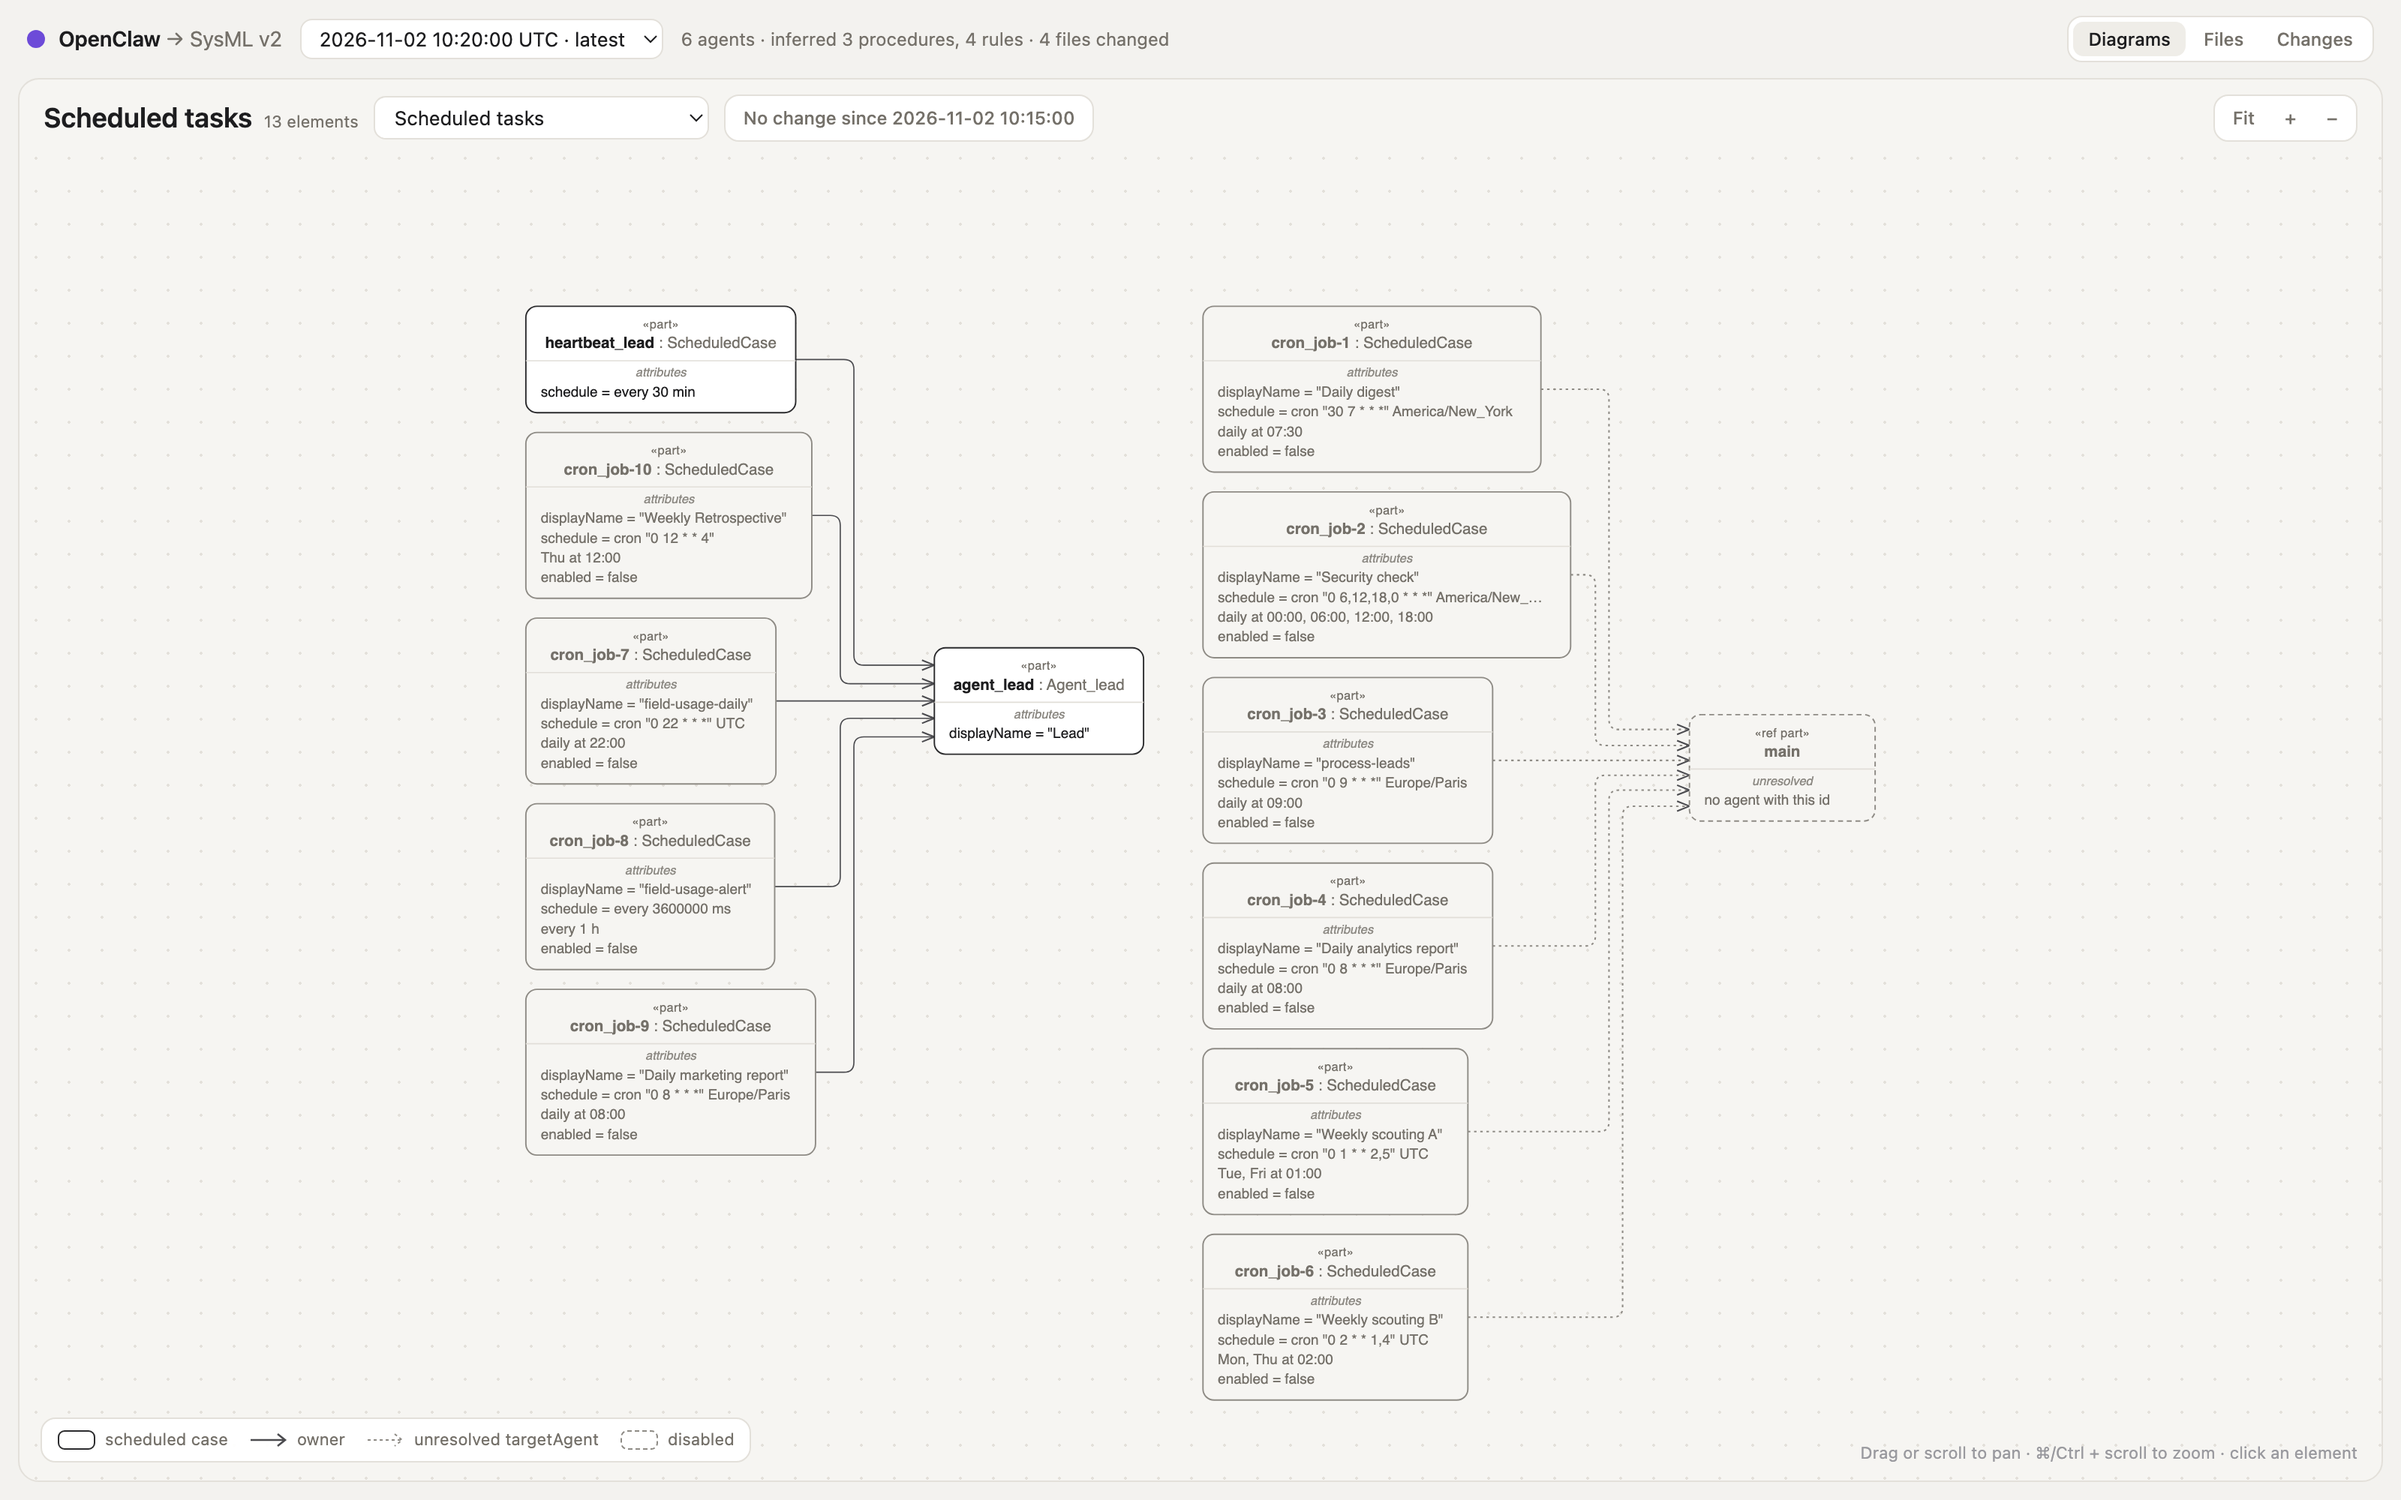
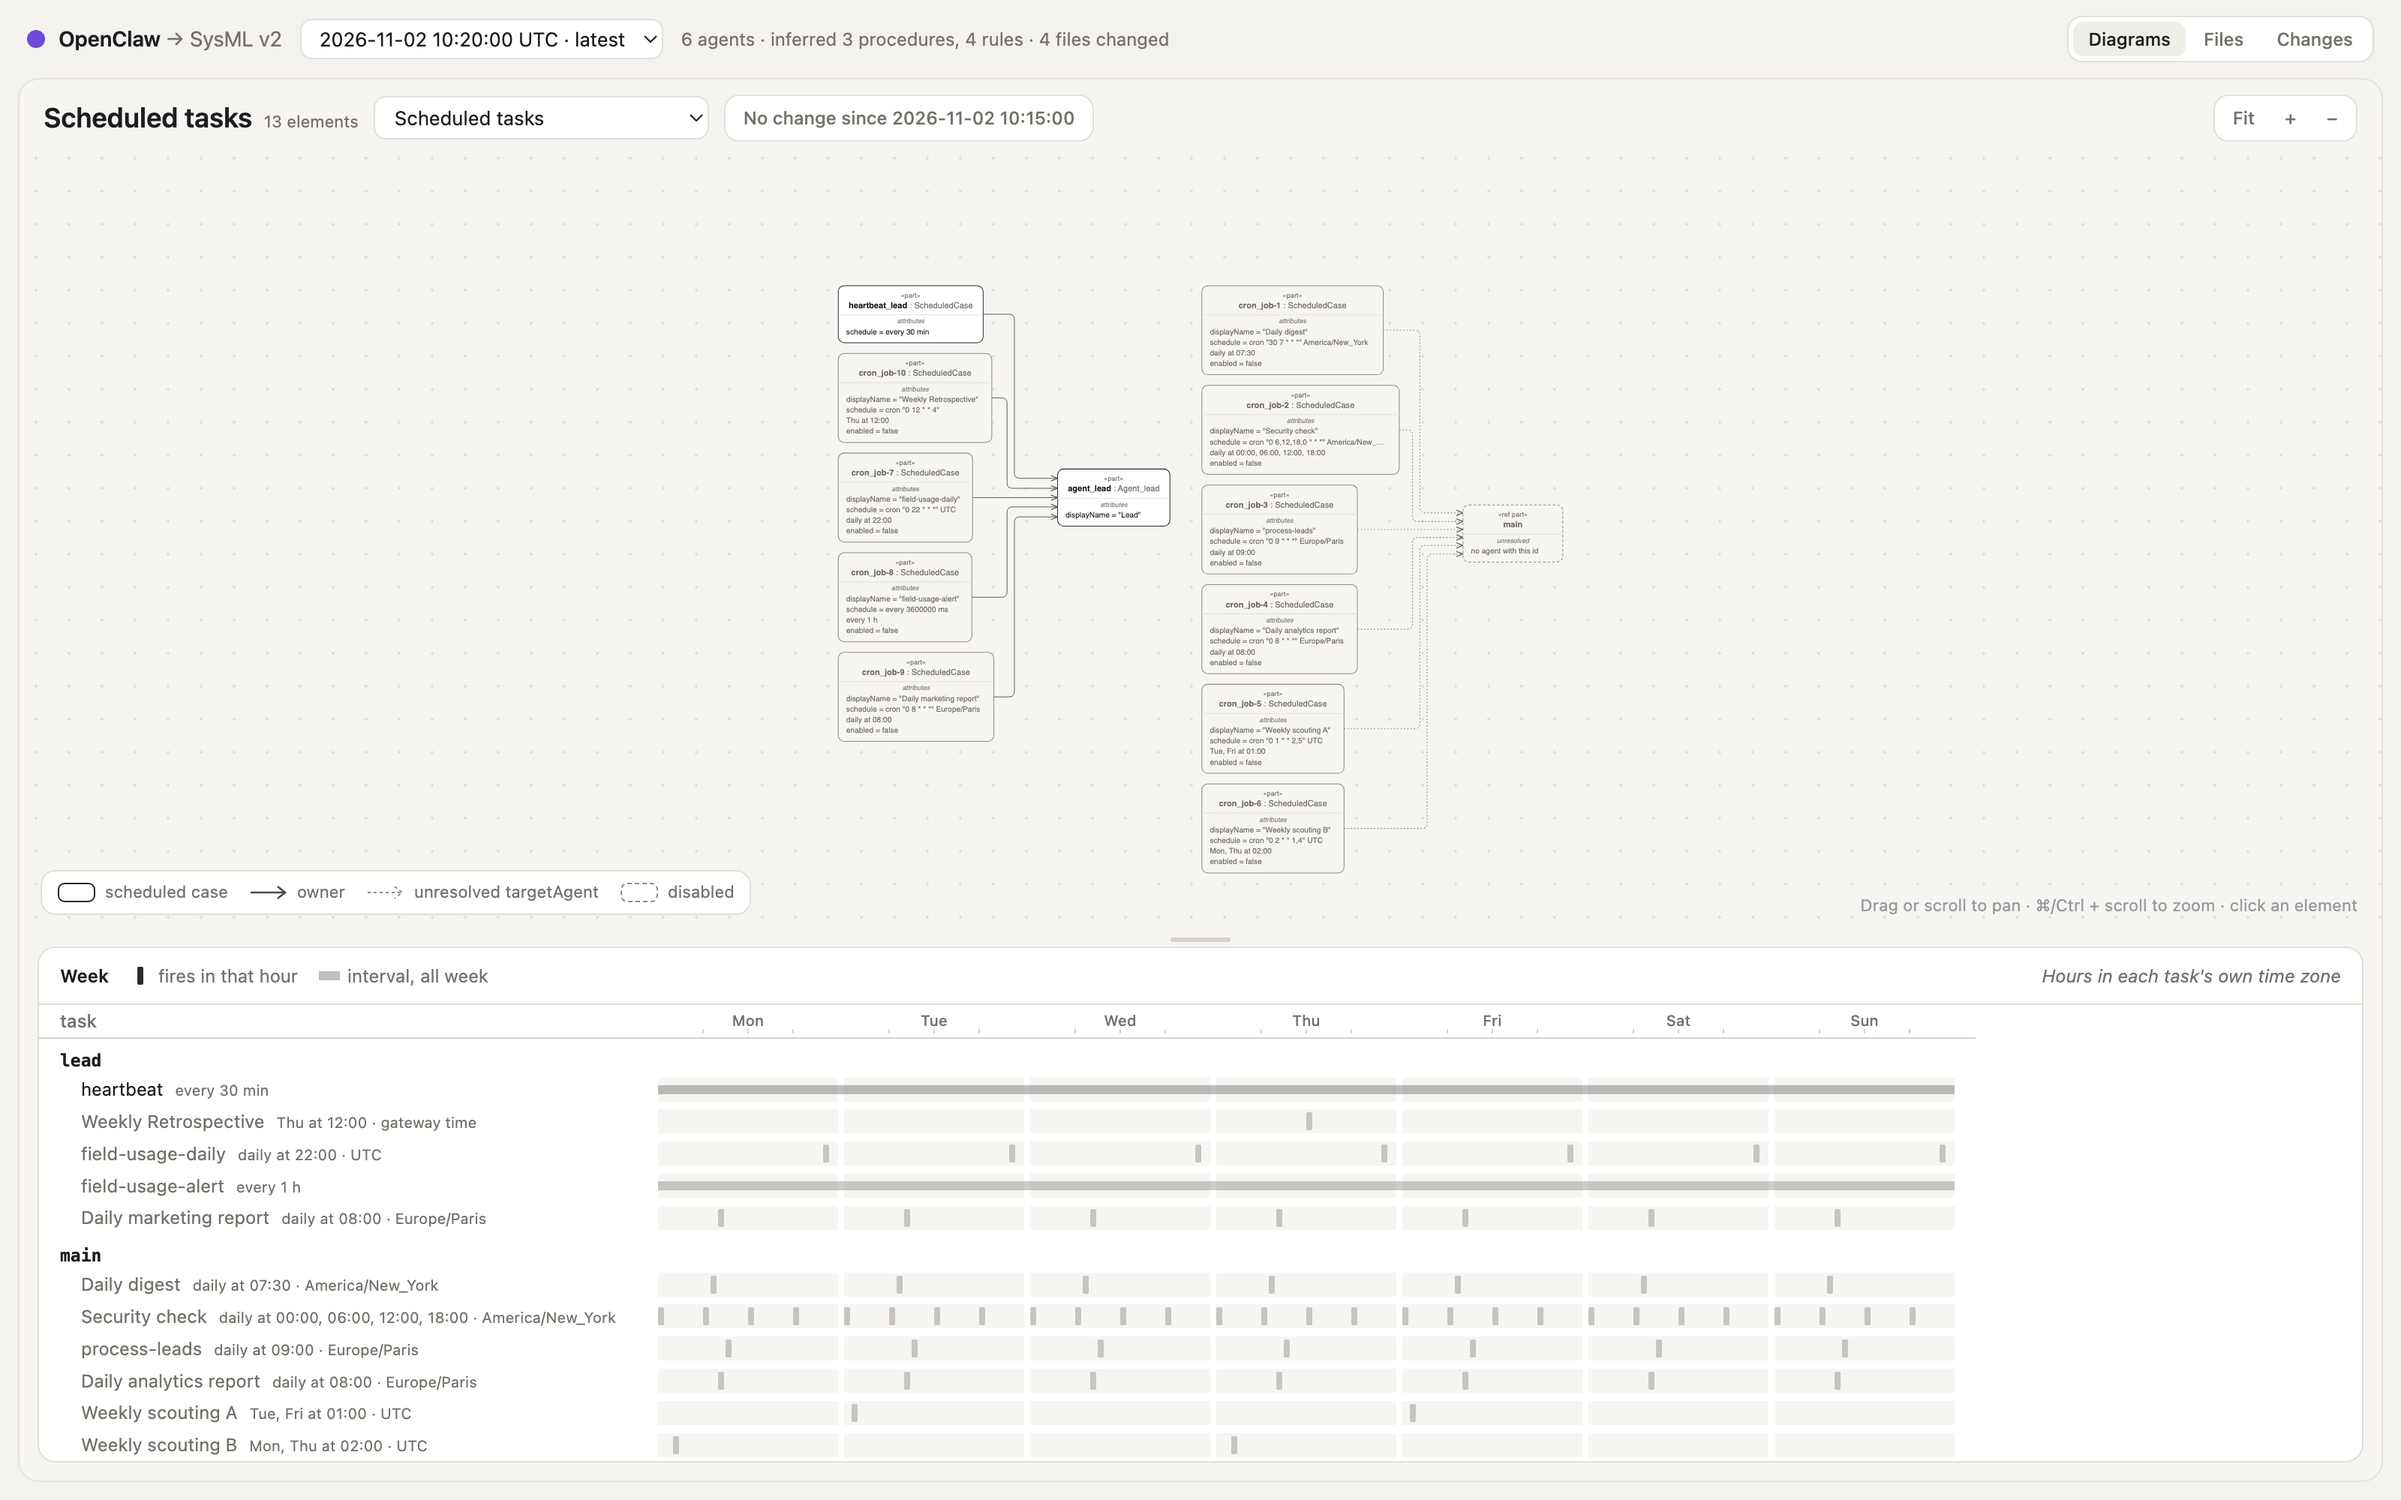
docs(readme): show the Overview, the Tools matrix, rules and the week
Describe the five views and regenerate the screenshots from the
anonymized fixture, two versions apart: the Overview, the Tools matrix
(built-in tools folded, a grant inspected), a Behaviour view with its
rules table and the Scheduled tasks week. System is unchanged.

diff --git a/README.md b/README.md
@@ -11,7 +11,7 @@ SysML v2 is the OMG's standard language for describing systems. The export is
 the entry point to Assembly, Casys' workbench for building, running and evolving
 agentic systems from SysML v2; you do not need either to read what it produces.
 
-![Behaviour view: an agent's inferred procedures as action flows, beside its rules](docs/screenshots/behaviour.png)
+![Behaviour view: an agent's inferred procedures as action flows, above its rules](docs/screenshots/behaviour.png)
 
 **Status:** 0.1.0, preview. Built for OpenClaw 2026.10.x; the collector also
 reads 2026.6 configurations. The OpenClaw plugin API is still marked
@@ -68,31 +68,39 @@ default.
 
 ## Viewer
 
-`index.html` draws each version as SysML v2 diagrams. It is one static page: no
-network, it opens from `file://`, and the diagrams are laid out when the export
-runs. Pick a version, then a view:
+`index.html` shows each version as SysML v2 views, diagrams and tables. It is
+one static page: no network, it opens from `file://`, and the views are laid out
+when the export runs. Pick a version, then a view:
 
+- **Overview**, the first view: one row per agent with its model, where it runs
+  (host or sandbox), its tools by origin, channel accounts, scheduled tasks,
+  context and, with inference, its procedures and rules, under the instance's
+  totals. Each row links to the agent in the other views.
 - **System**: each agent as a part with its context (instructions, skills,
   memory) and its granted tools by origin, connected to its channel accounts
   through its bindings.
-- **Tools**: the tool catalog by origin and provider. Each tool shows which
-  agents hold it, on the host or in the sandbox.
+- **Tools**: a SysML allocation matrix, the tool catalog by origin and provider
+  against the agents. Each cell is an agent's grant, on the host, in the sandbox
+  or both. Groups fold and count each agent's tools, and a filter keeps the
+  matching tools.
 - **Scheduled tasks**: cron jobs and heartbeats with their schedules, linked to
-  the agent they wake.
+  the agent they wake, over a week strip of the hours each one fires in.
 - **Behaviour** (with inference): each agent's proposed procedures as action
-  flows, with decisions, hand-offs and escalations, and its rules with the lines
-  they come from.
+  flows, with decisions, hand-offs and escalations, and its rules in a
+  requirements table with the lines they come from.
 
-Click an element to see its attributes and its exact SysML text. Elements added
-or changed since the previous version are highlighted, and removed ones are
-listed. Files and Changes show each file and its diff since the previous
-version.
+Click an element, row or cell to see its attributes and its exact SysML text.
+Elements added or changed since the previous version are highlighted, and
+removed ones are listed. Files and Changes show each file and its diff since the
+previous version.
 
-| System                                      | Scheduled tasks                                               |
-| ------------------------------------------- | ------------------------------------------------------------- |
-| ![System view](docs/screenshots/system.png) | ![Scheduled tasks view](docs/screenshots/scheduled-tasks.png) |
+![Overview: one row per agent under the instance's totals](docs/screenshots/overview.png)
 
-![Tools view](docs/screenshots/tools.png)
+| System                                      | Tools                                                  |
+| ------------------------------------------- | ------------------------------------------------------ |
+| ![System view](docs/screenshots/system.png) | ![Tools allocation matrix](docs/screenshots/tools.png) |
+
+![Scheduled tasks view, with the week in which each task fires](docs/screenshots/scheduled-tasks.png)
 
 The screenshots show the anonymized test fixture, two versions apart.
 

diff --git a/plugin/README.md b/plugin/README.md
@@ -6,9 +6,10 @@ one is allowed to use, their instructions, skills and memory, cron jobs and
 heartbeats, channels, sandboxes and exec settings. On request, each agent's own
 model proposes the procedures and rules written in its instruction files.
 
-Every run is kept as a version, with an offline page that draws it as SysML v2
-diagrams (system, tools, scheduled tasks, inferred behaviour), shows each
-element's SysML text and highlights what changed since the previous run.
+Every run is kept as a version, with an offline page that shows it as SysML v2
+views (an overview, the system, a tools allocation matrix, scheduled tasks and
+their week, inferred behaviour), shows each element's SysML text and highlights
+what changed since the previous run.
 
 Status: 0.1.0, preview. Requires OpenClaw 2026.10.9 or later.
 
